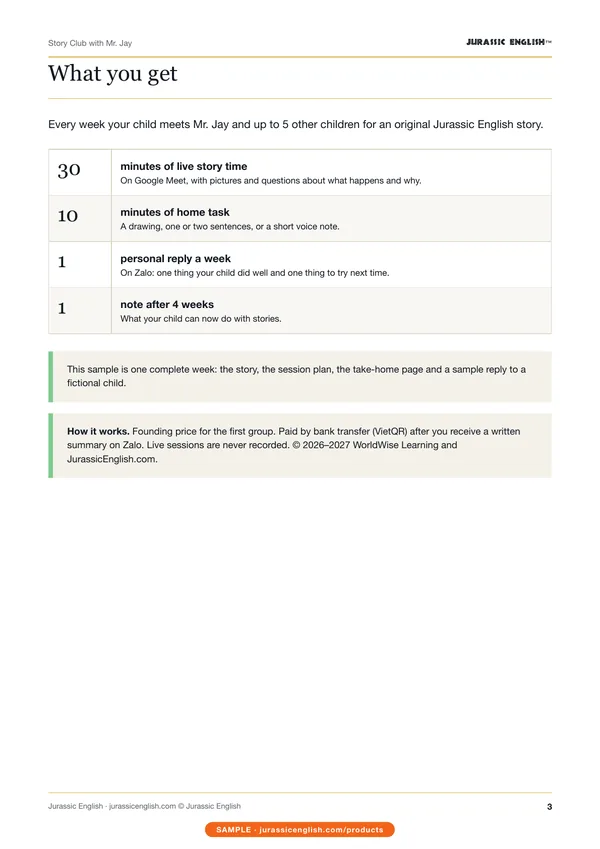
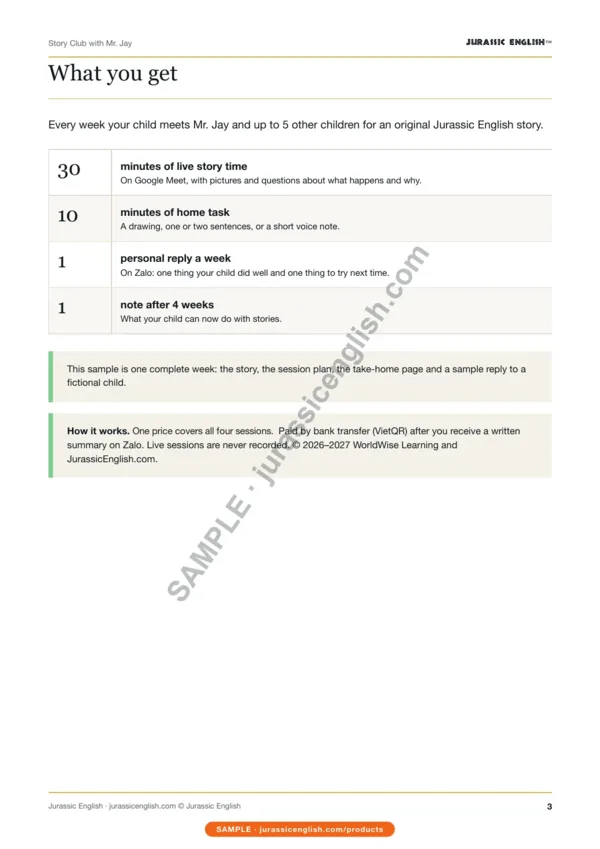
Story Club sample: replace the 'Founding price for the first group' line (pages 3, 8, p2 preview)
Replaced with 'One price covers all four sessions.' on the three images, the OCR text,
image/text hashes and the content-bound cache revisions (16 -> 18 revised images).
The original sample PDF is not published and is unchanged.

diff --git a/tests/sample-text.test.ts b/tests/sample-text.test.ts
@@ -80,10 +80,12 @@ test('build-time preparation rejects unknown/incomplete CLI arguments instead of
 });
 
 
-test('only the sixteen approved changed viewer images receive content-bound browser cache revisions', () => {
+test('only the eighteen approved changed viewer images receive content-bound browser cache revisions', () => {
   const expected = ['ielts-writing-teacher-pack-pg01.webp', 'parent-pack-l2-pg01.webp', 'parent-pack-l2-pg02.webp', 'parent-pack-l2-pg03.webp', 'parent-pack-l2-pg04.webp', 'parent-pack-l2-pg09.webp', 'parent-pack-l2-pg10.webp',
     // 11 Nov 2026: Printable Pack v2 (new Lina art; v2.1 footer on the picture pages).
-    ...[5, 6, 7, 8, 9, 10, 11, 13, 15].map(n => `printable-pack-l1-pg${String(n).padStart(2, '0')}.webp`)];
+    ...[5, 6, 7, 8, 9, 10, 11, 13, 15].map(n => `printable-pack-l1-pg${String(n).padStart(2, '0')}.webp`),
+    // 12 Nov 2026: Story Club sample pages 3 and 8 ("Founding price" line replaced).
+    'story-club-pg03.webp', 'story-club-pg08.webp'];
   assert.deepEqual(Object.keys(SAMPLE_PAGE_REVISIONS).sort(), expected.sort());
   let revised = 0;
   for (const product of PRODUCTS.filter(p => p.group !== 'bundles')) for (const url of productSampleFiles(product.sample!).pages) {
@@ -95,5 +97,5 @@ test('only the sixteen approved changed viewer images receive content-bound brow
       assert.equal(parsed.searchParams.get('v'), prefix); revised++;
     } else assert.equal(parsed.search, '', `${file}: unchanged browser URL`);
   }
-  assert.equal(revised, 16);
+  assert.equal(revised, 18);
 });

diff --git a/src/i18n/content/samplePages.ts b/src/i18n/content/samplePages.ts
@@ -54,6 +54,9 @@ export const SAMPLE_PAGE_HEIGHT = 1699;
 
 // Only the seven approved replacement images need new browser cache keys.
 export const SAMPLE_PAGE_REVISIONS: Record<string, string> = {
+  // 12 Nov 2026: Story Club sample pages 3 and 8, "Founding price for the first group" replaced.
+  'story-club-pg03.webp': '546a202a8a9f',
+  'story-club-pg08.webp': 'b66f62d1bb9e',
   'ielts-writing-teacher-pack-pg01.webp': 'a75be50f744a',
   'parent-pack-l2-pg01.webp': 'e22b3db246a4',
   'parent-pack-l2-pg02.webp': 'ef4fe1b90d5d',
